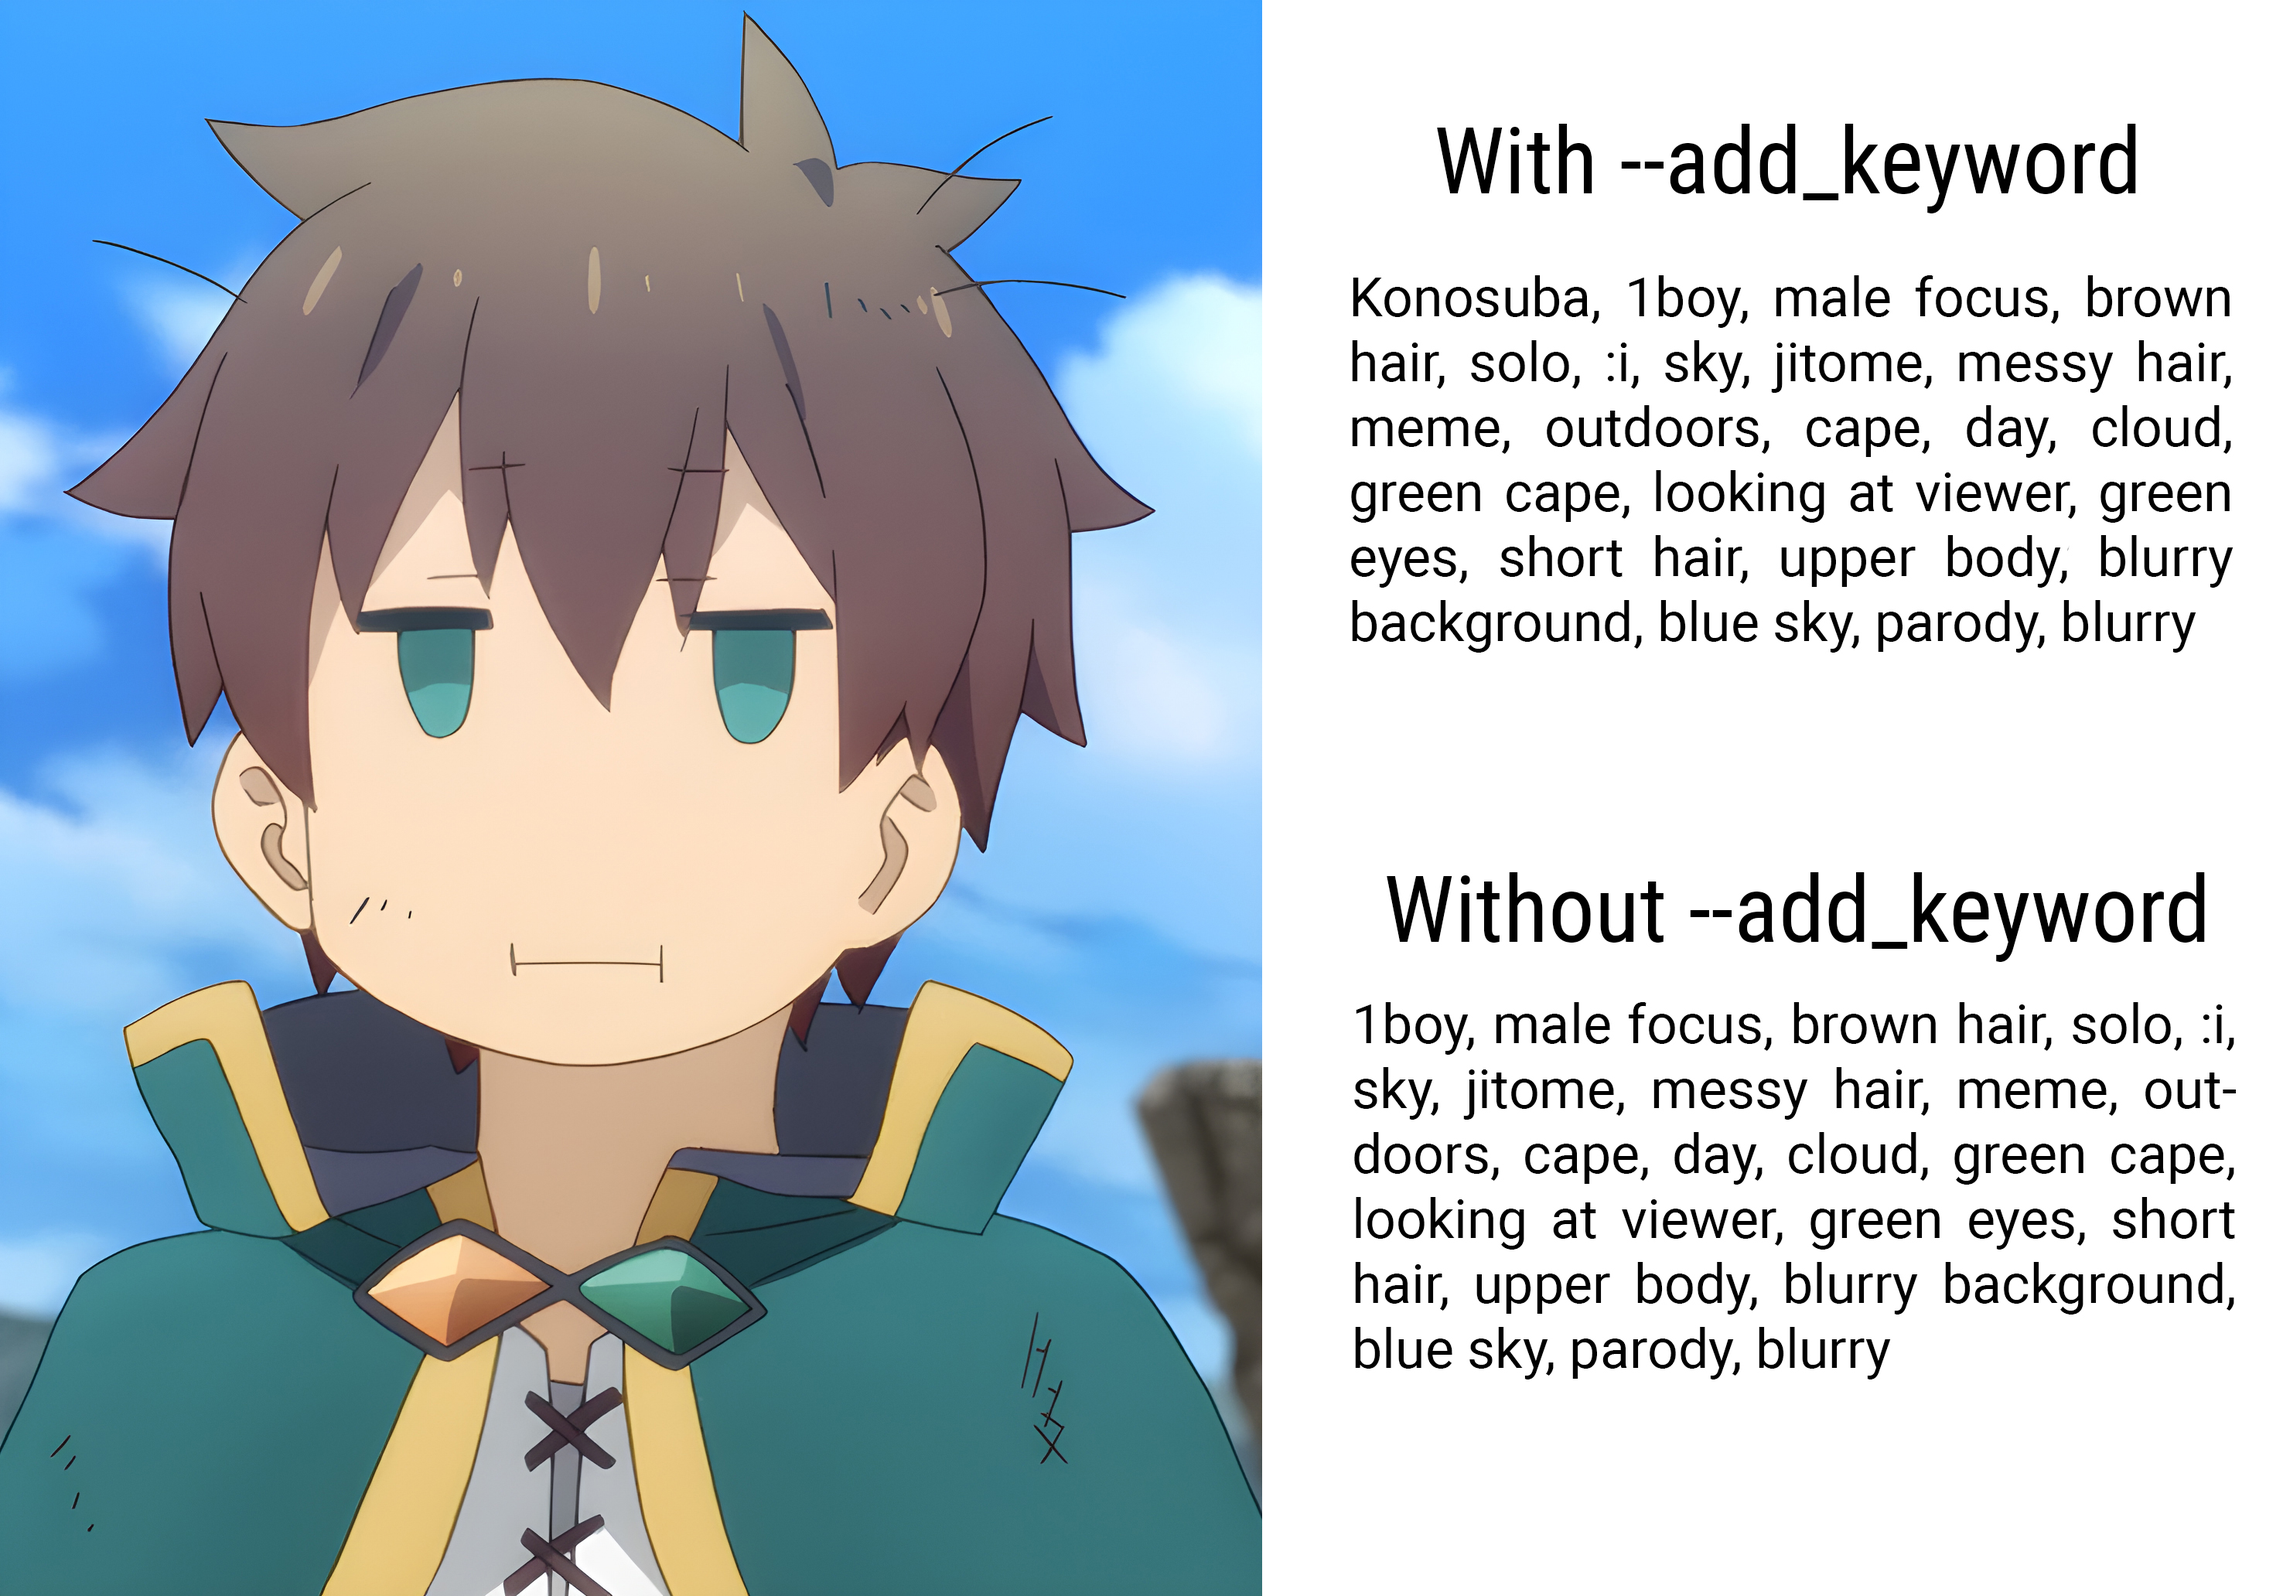
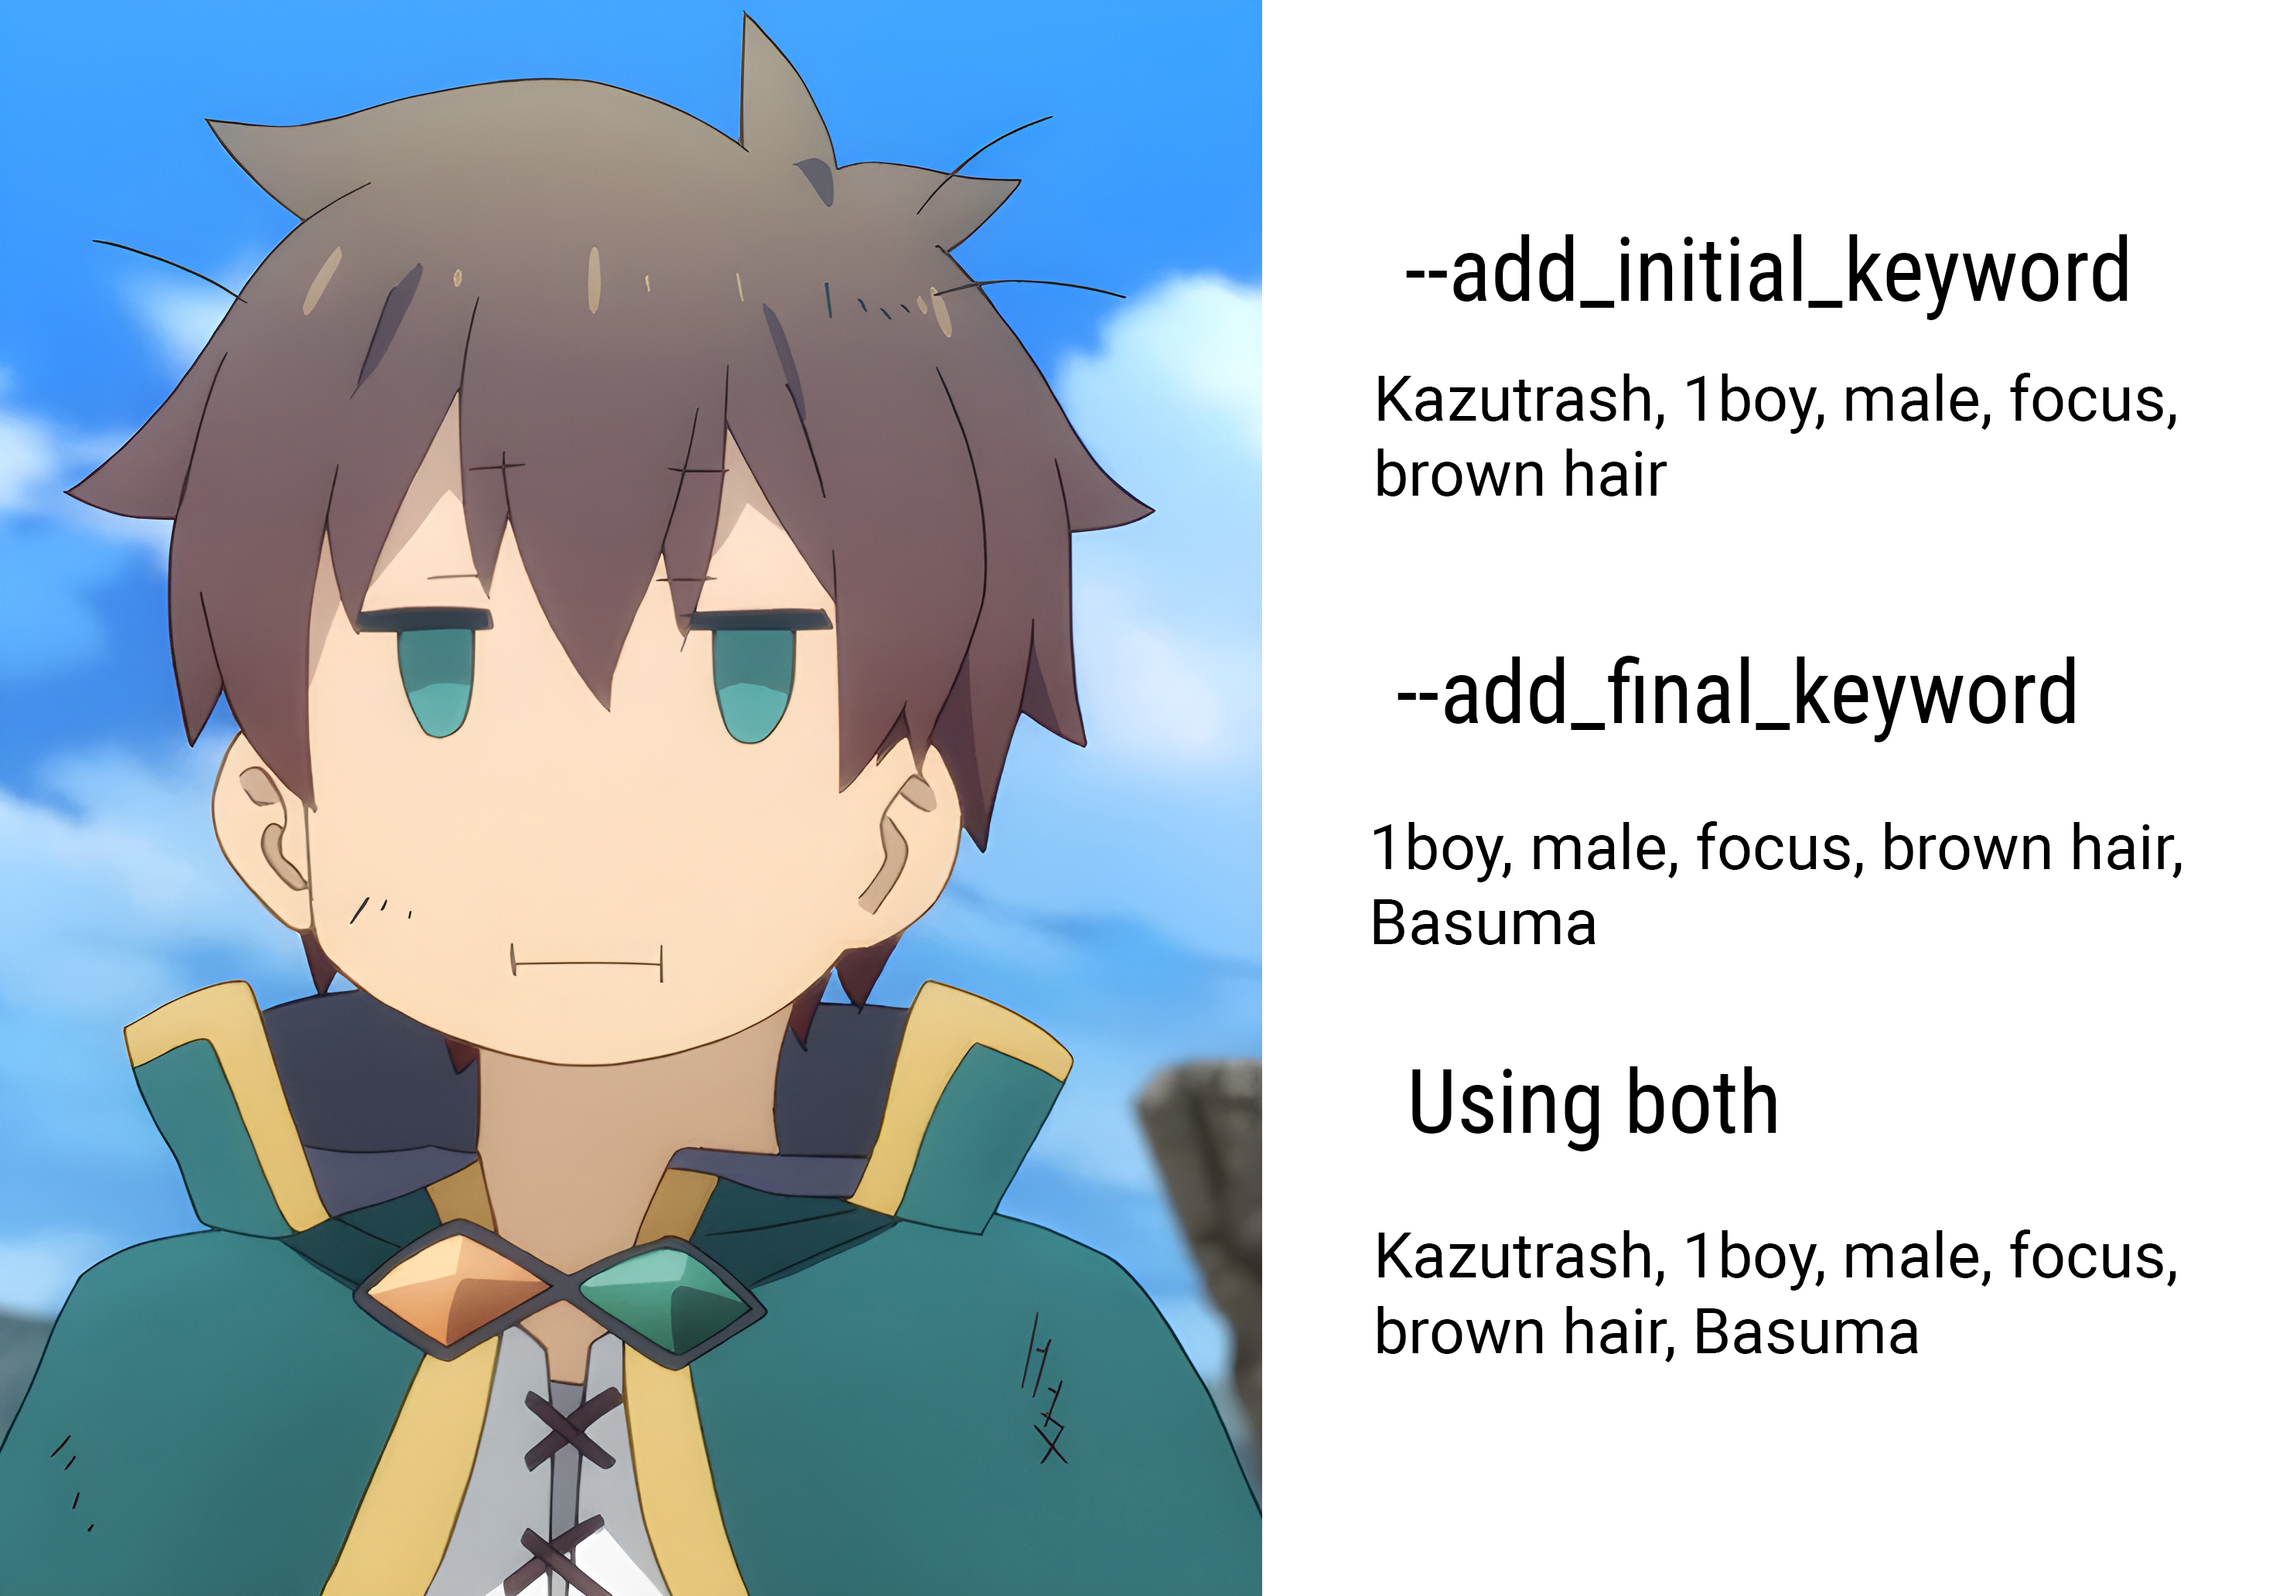
added downloader

diff --git a/tagger.py b/tagger.py
@@ -1,4 +1,5 @@
 import os
+import os
 import re
 import numpy as np
 import tensorflow as tf
@@ -31,6 +32,9 @@ parser.add_argument("--label", type=str, default="./Models/selected_tags.csv", h
 parser.add_argument("--batch_size", type=int, default=32, help="Batch size for processing images. Default is 32.")
 parser.add_argument("--general_score", type=float, default="0.5", help="Sets the minimum score of 'confidence'. Default '0.5'")
 parser.add_argument("--character_score", type=float, default="0.85", help="Sets the minimum score of 'character confidence'. Default '0.85'")
+parser.add_argument("--add_initial_keyword", type=str, help="Keyword to add at the beginning of the tags.")
+parser.add_argument("--add_final_keyword", type=str, help="Keyword to add at the end of the tags.")
+parser.add_argument("--download", action="store_true", help="Download the specified model.")
 args = parser.parse_args()
 
 LABEL_FILENAME = args.label
@@ -39,7 +43,10 @@ OUTPUT_DIRECTORY = args.output
 BATCH_SIZE = args.batch_size
 SCORE_GENERAL_THRESHOLD = args.general_score
 SCORE_CHARACTER_THRESHOLD = args.character_score
-MODEL = args.model
+MODEL = f"./Models/{args.model}"
+MODEL_NAME = args.model
+INITIAL_KEYWORD = args.add_initial_keyword
+FINAL_KEYWORD = args.add_final_keyword
 
 if args.output is None:
     OUTPUT_DIRECTORY = IMAGES_DIRECTORY
@@ -55,6 +62,49 @@ def download_files():
     if not os.path.exists(LABEL_FILENAME):
         print(f"Downloading {LABEL_FILENAME}...")
         download_file(LABEL_URL, LABEL_FILENAME)
+
+def download_model():
+    model_urls = {
+        "SwinV2": [
+            "https://huggingface.co/SmilingWolf/wd-v1-4-swinv2-tagger-v2/resolve/main/saved_model.pb",
+            "https://huggingface.co/SmilingWolf/wd-v1-4-swinv2-tagger-v2/resolve/main/variables/variables.data-00000-of-00001",
+            "https://huggingface.co/SmilingWolf/wd-v1-4-swinv2-tagger-v2/resolve/main/variables/variables.index",
+        ],
+        "ConvNext": [
+            "https://huggingface.co/SmilingWolf/wd-v1-4-convnext-tagger-v2/resolve/main/saved_model.pb",
+            "https://huggingface.co/SmilingWolf/wd-v1-4-convnext-tagger-v2/resolve/main/variables/variables.data-00000-of-00001",
+            "https://huggingface.co/SmilingWolf/wd-v1-4-convnext-tagger-v2/resolve/main/variables/variables.index",
+        ],
+        "ConvNextV2": [
+            "https://huggingface.co/SmilingWolf/wd-v1-4-convnextv2-tagger-v2/resolve/main/saved_model.pb",
+            "https://huggingface.co/SmilingWolf/wd-v1-4-convnextv2-tagger-v2/resolve/main/variables/variables.data-00000-of-00001",
+            "https://huggingface.co/SmilingWolf/wd-v1-4-convnextv2-tagger-v2/resolve/main/variables/variables.index",
+        ],
+        "ViTv2": [
+            "https://huggingface.co/SmilingWolf/wd-v1-4-vit-tagger-v2/resolve/main/saved_model.pb"
+            "https://huggingface.co/SmilingWolf/wd-v1-4-vit-tagger-v2/resolve/main/variables/variables.data-00000-of-00001"
+            "https://huggingface.co/SmilingWolf/wd-v1-4-vit-tagger-v2/resolve/main/variables/variables.index"
+        ],
+    }
+
+    if MODEL_NAME not in model_urls:
+        print(f"Model {MODEL_NAME} is not supported for downloading.")
+        return
+
+    model_folder = os.path.join("Models", MODEL_NAME)
+    variables_folder = os.path.join(model_folder, "variables")
+
+    if not os.path.exists(model_folder):
+        os.makedirs(model_folder)
+
+    if not os.path.exists(variables_folder):
+        os.makedirs(variables_folder)
+
+    for url in model_urls[MODEL_NAME]:
+        filename = os.path.basename(url)
+        file_path = os.path.join(variables_folder, filename) if "variables" in filename else os.path.join(model_folder, filename)
+        print(f"Downloading {filename}...")
+        urllib.request.urlretrieve(url, file_path)
 
 def load_labels() -> list[str]:
     df = pd.read_csv(LABEL_FILENAME)
@@ -121,12 +171,21 @@ def predict(
             .replace("_", " ")
             .replace("(", "\(")
             .replace(")", "\)")
+            .replace(", ,", ",")
         )
         a = re.sub(r'\\?\([^)]*\)', '', a)
         c = ", ".join(list(b.keys()))
         character_tags = ', '.join(list(character_res.keys())).replace('_', ' ')
         character_tags = re.sub(r'\([^)]*\)', '', character_tags)
-        result = f"{character_tags}, {a}"
+
+        if INITIAL_KEYWORD and FINAL_KEYWORD:
+            result = f"{INITIAL_KEYWORD}, {character_tags}, {a}, {FINAL_KEYWORD}"
+        elif INITIAL_KEYWORD:
+            result = f"{INITIAL_KEYWORD}, {character_tags}, {a}"
+        elif FINAL_KEYWORD:
+            result = f"{character_tags}, {a}, {FINAL_KEYWORD}"
+        else:
+            result = f"{character_tags}, {a}"
         result = re.sub(r'\s*,\s*', ', ', result)
         
         results.append(result)
@@ -134,6 +193,8 @@ def predict(
     return results
 
 def main():
+    if args.download:
+        download_model()
     model = tf.saved_model.load(MODEL)
     
     tag_names, rating_indexes, general_indexes, character_indexes = load_labels()
@@ -141,7 +202,7 @@ def main():
     if not os.path.exists(OUTPUT_DIRECTORY):
         os.makedirs(OUTPUT_DIRECTORY)
 
-    image_paths = [os.path.join(IMAGES_DIRECTORY, f) for f in os.listdir(IMAGES_DIRECTORY) if f.endswith(".jpg") or f.endswith(".png")]
+    image_paths = [os.path.join(IMAGES_DIRECTORY, f) for f in os.listdir(IMAGES_DIRECTORY) if f.endswith(".jpg") or f.endswith(".png") or f.endswith(".webp")]
 
     for i in range(0, len(image_paths), BATCH_SIZE):
         batch_image_paths = image_paths[i:i + BATCH_SIZE]

diff --git a/README.md b/README.md
@@ -1,6 +1,6 @@
 # WD-14-TF-Tagger
 
-This repository is a batch tagger adapted from the hugginface space that works using the Tensorflow models made by SmilingWolf support for **Convnextv2**, **Convnext_tagger_v2**, **Swinv2** and **ViTv2**. It will generate a txt file with the same name of the image with the prediction results inside.
+This repository is a batch tagger adapted from the hugginface space that works using the Tensorflow models made by SmilingWolf. Support for **ConvNext**, **ConvNextV2**, **SwinV2** and **ViTv2**. It will generate a txt file with the same name of the image with the prediction results inside.
 
 It can be run on both GPU and CPU.
 
@@ -21,14 +21,14 @@ Once it's done install the **requirements.txt**:
 
     pip install -r requirements.txt
 
-You have to download the variables folder and the saved_model.pb, put both in a folder with the name of the model that you downloaded. Yo can find the [Models](https://huggingface.co/SmilingWolf) here.
+You can find the [Models](https://huggingface.co/SmilingWolf) here. Download the saved_model.pb and the variables folder an put those on the same folder . If you don't want to download manually the script can do it for you, more info below
 For the [selected_tags.csv](https://huggingface.co/SmilingWolf/wd-v1-4-swinv2-tagger-v2/resolve/main/selected_tags.csv) you have to put that in the Models folder or let the script download it for you
 
 ## Usage
 
 Once you activate your venv for a basic usage type (by default uses the GPU):
 
-    python tagger.py --input "your/folder/path" --model /path/to/your/model/folder --general_score 0.5
+    python tagger.py --input "your/folder/path" --model model_name --general_score 0.5
    
 With this command it will tag your images and write the result in a TXT file with the same name as the file
 
@@ -44,7 +44,10 @@ Specify the directory where the results are going to be stored. Default will be 
 By default, it assumes that 'selected_tags.csv' is in the Models folder. If it has a different name or is on another directory use this argument to specify.
 
 ### --model
-As mentioned at the beginning you can use 'Convnextv2', 'Convnext_tagger_v2', 'Swinv2' or 'ViTv2'. It's important to actually download the variables folder and the saved_model.pb, otherwise it will not work. I suggest you to put those files in folders with the name of the model so it easy to recognize and to keep everything in place. Example Path "C:\Documents\WD-14-TF-Tagger\Models\SwinV2"
+As mentioned at the beginning you can use 'ConvNext', 'ConvNextV2', 'SwinV2' or 'ViTv2' (Only use the names). You have to put the path to the folder where the saved_model.pb and the variables folder are. In case you don't have any model downloaded you can usa the '--download' argument but remember to remove it if you are going to run with the same model again. Example Path "C:\Documents\WD-14-TF-Tagger\Models\SwinV2"
+
+### --download
+Use this argument to automatically download the corresponding model, only put the exact name of the model and the script will take care of the rest
 
 ### --general_score
 Specify the minimum 'confidence' percentage for a tag in the prediction. The lower the number, the more tags will appear, but they may be redundant or not entirely accurate to what is seen in the image.
@@ -57,8 +60,8 @@ By default it's set on 0.85
 ### --batch_size 
 The higher the faster but also it will use more VRAM. By default it's set to 32 (with that it uses 8.8GB of VRAM)
 
-### --add_keyword
-~~If you want to use the tag format used in [MF-Bofuri](https://huggingface.co/MyneFactory/MF-Bofuri) use this. It will append the keyword at the beggining of the text. Keep in mind that to use it this way, you must have your dataset well organized by characters/artists/style so that it does not 'contaminate' other images that do not require that specific addition.~~ To be re-implemented alongside with the auto-download option
+### --add_initial_keyword and --add_final_keyword
+If you want to use the tag format used in [MF-Bofuri](https://huggingface.co/MyneFactory/MF-Bofuri) use this. It will append the keyword at the beggining or the end of the text. Keep in mind that to use it this way, you must have your dataset well organized by characters/artists/style so that it does not 'contaminate' other images that do not require that specific addition. If the prediction detects a specific character is going to also be on the results, it will be interesting to see how that affects training (BoSally + Sally). If you don't want that remove the {character_tags}, from lines **181**, **183** and **185**
 
 ## Examples of **general_score**, **character_score** and **add_keyword**
 
@@ -74,8 +77,8 @@ As I mentioned earlier the lower the number the more irrelevant or redundant tag
 
 Normally you won't need this option, just in some cases that maybe some characters are not detected you can lower a bit the number but be careful, as you can see it will start adding characters that are not there or there's not enough information of them in the picture so adding them will be useless and even bad for the model that you're training
 
-~~### Add_keyword~~
+### Add_initial_keyword and add_final_keyword
 
-~~![Kazuma_add_keyword](/Examples/Kazuma_keyword.jpg)~~
+~![Kazuma_add_keyword](/Examples/Kazuma_keyword.jpg)
 
-~~This is just to showcase how it will look when you use this option, in the example that I refenced before ([MF-Bofuri](https://huggingface.co/MyneFactory/MF-Bofuri)) things like 'BoMaple' or 'BoSally' are used to make reference of the characters. You can add whatever tag/s you want. If you want to use multiple tags use quotation marks to add them, like this --add_keyword **"Konosuba, anime"**~~
+This is just to showcase how it will look when you use this option, in the example that I refenced before ([MF-Bofuri](https://huggingface.co/MyneFactory/MF-Bofuri)) things like 'BoMaple' or 'BoSally' are used to make reference of the characters. You can add whatever tag/s you want. If you want to use multiple tags use quotation marks to add them, like this --add_initial_keyword **"Konosuba, anime"**
